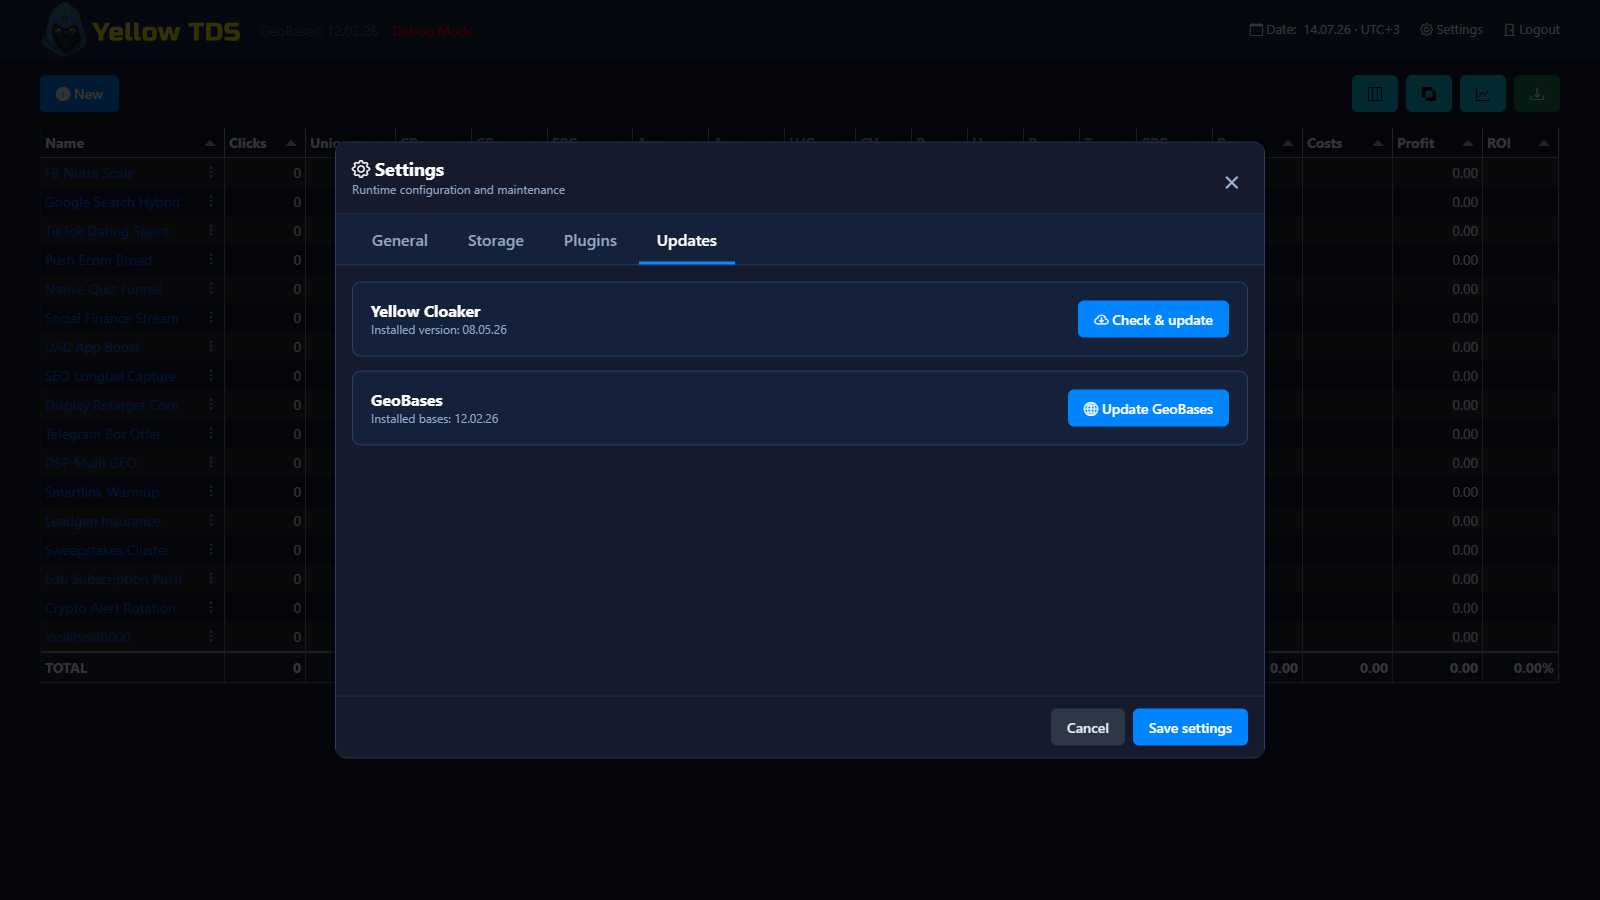
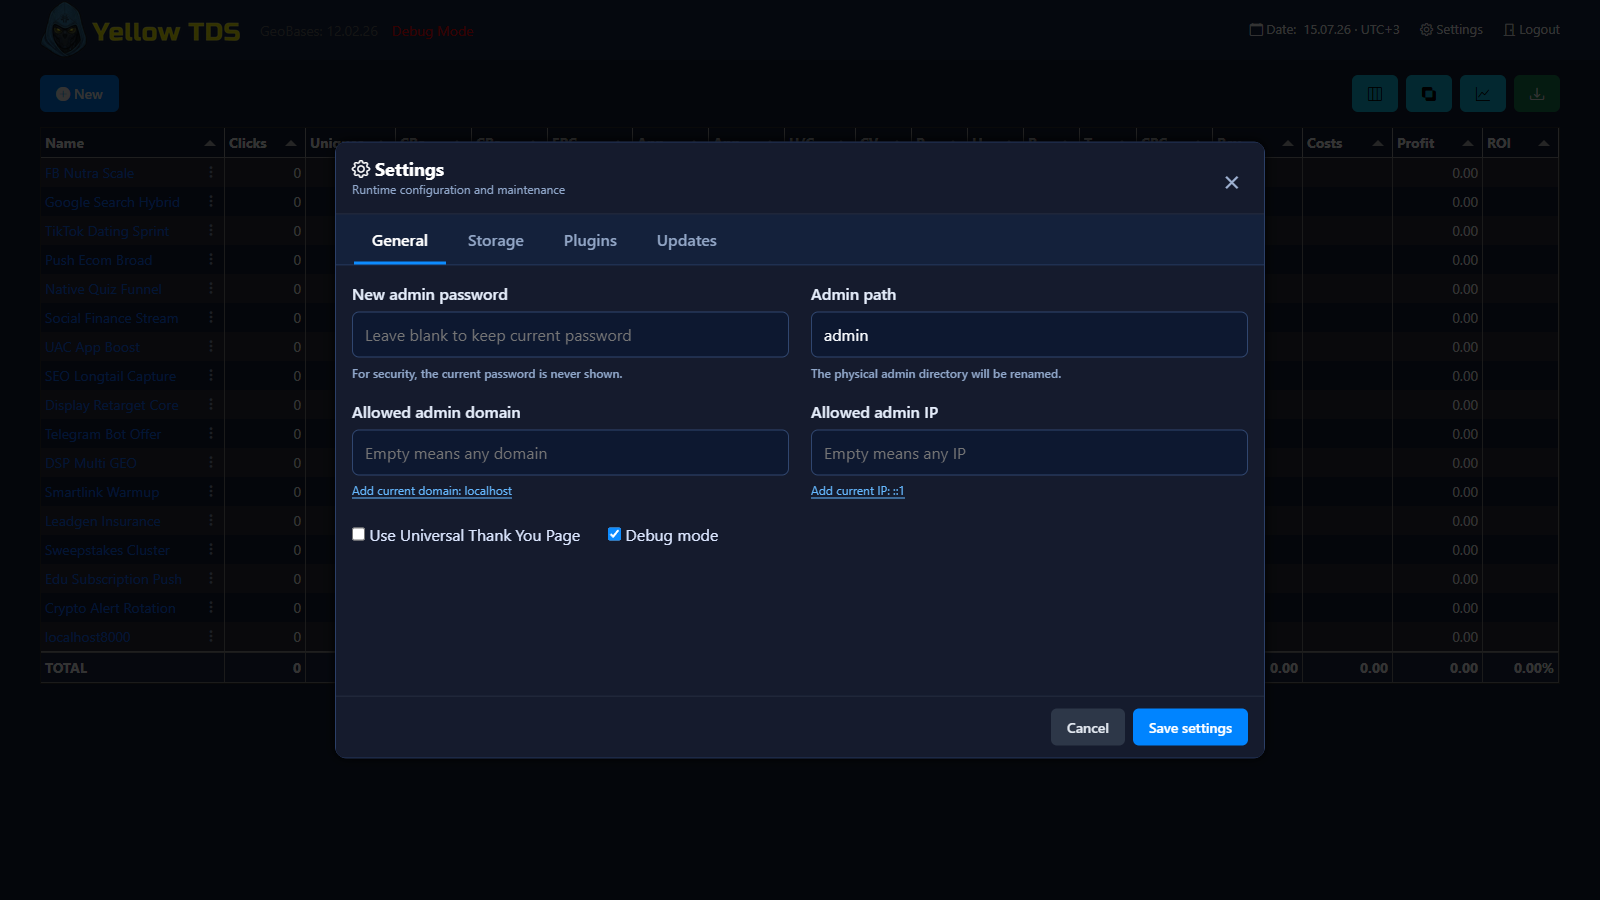
Polish settings update actions and domain helper

diff --git a/admin/js/settings.js b/admin/js/settings.js
@@ -60,6 +60,14 @@
         button.textContent = currentIp === '' ? '' : `Add current IP: ${currentIp}`;
     }
 
+    function renderCurrentDomain(domain) {
+        const button = node('#addCurrentAdminDomain');
+        const currentDomain = String(domain || '').trim();
+        button.hidden = currentDomain === '';
+        button.dataset.domain = currentDomain;
+        button.textContent = currentDomain === '' ? '' : `Add current domain: ${currentDomain}`;
+    }
+
     function createPluginRow(type, id, meta, config) {
         const row = document.createElement('div');
         row.className = 'settings-plugin-row';
@@ -180,6 +188,7 @@
         state.revision = result.revision;
         state.plugins = result.plugins;
         fillFields(result.settings);
+        renderCurrentDomain(result.currentDomain);
         renderCurrentIp(result.currentIp);
         renderPlugins(result.settings, result.plugins);
         node('#tdsVersion').textContent = `Installed version: ${result.updates?.currentVersion || 'unknown'}`;
@@ -302,6 +311,13 @@
         node('#saveSettings')?.addEventListener('click', saveSettings);
         node('#updateGeoBases')?.addEventListener('click', updateGeoBases);
         node('#updateTds')?.addEventListener('click', updateTds);
+        node('#addCurrentAdminDomain')?.addEventListener('click', () => {
+            const button = node('#addCurrentAdminDomain');
+            if (!button.dataset.domain) return;
+            field('adminDomain').value = button.dataset.domain;
+            field('adminDomain').classList.remove('is-invalid');
+            field('adminDomain').focus();
+        });
         node('#addCurrentAdminIp')?.addEventListener('click', () => {
             const button = node('#addCurrentAdminIp');
             if (!button.dataset.ip) return;

diff --git a/admin/css/header.css b/admin/css/header.css
@@ -163,7 +163,7 @@
 .settings-field input.is-invalid { border-color: #f87171; }
 .settings-field-error { color: #fca5a5 !important; }
 
-.settings-current-ip {
+.settings-current-value {
     align-self: flex-start;
     border: 0;
     background: transparent;
@@ -175,7 +175,7 @@
     text-underline-offset: 3px;
 }
 
-.settings-current-ip:hover { color: #9bd1ff; }
+.settings-current-value:hover { color: #9bd1ff; }
 
 .settings-switches {
     display: flex;
@@ -342,6 +342,17 @@
     background: #14213b;
 }
 
+.settings-update-action {
+    display: inline-flex;
+    align-items: center;
+    justify-content: center;
+    gap: 7px;
+    flex: 0 0 190px;
+    width: 190px;
+    min-height: 42px;
+    white-space: nowrap;
+}
+
 .settings-update-card + .settings-update-card { margin-top: 14px; }
 .settings-update-status:empty { display: none; }
 .settings-update-status.success { background: #14372b; color: #a7f3d0; }
@@ -368,6 +379,18 @@
     .settings-grid { grid-template-columns: 1fr; }
     .settings-plugin-row { grid-template-columns: 1fr; }
     .settings-modal-body { max-height: 68vh; }
+}
+
+@media (max-width: 560px) {
+    .settings-update-card {
+        align-items: stretch;
+        flex-direction: column;
+    }
+
+    .settings-update-action {
+        flex-basis: auto;
+        width: 100%;
+    }
 }
 
 .logo-link {

diff --git a/admin/settingsmodal.php b/admin/settingsmodal.php
@@ -33,11 +33,12 @@
                         <label class="settings-field">
                             <span>Allowed admin domain</span>
                             <input type="text" name="adminDomain" placeholder="Empty means any domain">
+                            <button type="button" class="settings-current-value" id="addCurrentAdminDomain" hidden></button>
                         </label>
                         <label class="settings-field">
                             <span>Allowed admin IP</span>
                             <input type="text" name="adminIp" placeholder="Empty means any IP">
-                            <button type="button" class="settings-current-ip" id="addCurrentAdminIp" hidden></button>
+                            <button type="button" class="settings-current-value" id="addCurrentAdminIp" hidden></button>
                         </label>
                     </div>
                     <div class="settings-switches">
@@ -82,11 +83,11 @@
                 <section class="settings-tab-panel" data-settings-panel="updates">
                     <div class="settings-update-card">
                         <div><h6>YellowTDS</h6><div id="tdsVersion" class="settings-update-meta"></div></div>
-                        <button type="button" class="btn btn-primary" id="updateTds"><i class="bi bi-cloud-arrow-down"></i> Check &amp; update</button>
+                        <button type="button" class="btn btn-primary settings-update-action" id="updateTds"><i class="bi bi-cloud-arrow-down"></i> Check &amp; update</button>
                     </div>
                     <div class="settings-update-card">
                         <div><h6>GeoBases</h6><div id="geoBasesVersion" class="settings-update-meta"></div></div>
-                        <button type="button" class="btn btn-primary" id="updateGeoBases"><i class="bi bi-globe2"></i> Update GeoBases</button>
+                        <button type="button" class="btn btn-primary settings-update-action" id="updateGeoBases"><i class="bi bi-globe2"></i> Update GeoBases</button>
                     </div>
                     <div id="settingsUpdateStatus" class="settings-update-status" aria-live="polite"></div>
                 </section>

diff --git a/admin/accesscontrol.php b/admin/accesscontrol.php
@@ -1,6 +1,17 @@
 <?php
 require_once __DIR__ . '/../bases/ipcountry.php';
 
+function get_admin_request_domain(array $server): string
+{
+    $serverName = trim((string)($server['SERVER_NAME'] ?? ''));
+    if ($serverName === '') {
+        return '';
+    }
+
+    $domain = parse_url('http://' . $serverName, PHP_URL_HOST);
+    return is_string($domain) ? $domain : $serverName;
+}
+
 function get_admin_request_ip(array $server, ?callable $isCloudflareIp = null): string
 {
     $remoteAddr = trim((string)($server['REMOTE_ADDR'] ?? ''));
@@ -49,7 +60,7 @@ function get_admin_access_error(array $server, array $settings, ?callable $isClo
 {
     $adminDomain = trim((string)($settings['adminDomain'] ?? ''));
     if ($adminDomain !== '') {
-        $currentDomain = (string)($server['SERVER_NAME'] ?? '');
+        $currentDomain = get_admin_request_domain($server);
         if ($currentDomain !== $adminDomain) {
             return "Admin Domain $adminDomain is set, but your domain is $currentDomain. You are not allowed to access this page!";
         }

diff --git a/tests/AdminAccessControlTest.php b/tests/AdminAccessControlTest.php
@@ -1,0 +1,27 @@
+<?php
+
+use PHPUnit\Framework\TestCase;
+
+$GLOBALS['cloSettings'] = [
+    'debug' => false,
+];
+
+require_once __DIR__ . '/../admin/accesscontrol.php';
+
+class AdminAccessControlTest extends TestCase
+{
+    public function testCurrentDomainDoesNotIncludePort(): void
+    {
+        $server = ['SERVER_NAME' => 'admin.example.com:8443'];
+
+        $this->assertSame('admin.example.com', get_admin_request_domain($server));
+    }
+
+    public function testDomainRestrictionUsesDetectedDomainWithoutPort(): void
+    {
+        $server = ['SERVER_NAME' => 'admin.example.com:8443'];
+        $settings = ['adminDomain' => 'admin.example.com', 'adminIp' => ''];
+
+        $this->assertNull(get_admin_access_error($server, $settings));
+    }
+}

diff --git a/admin/settingseditor.php b/admin/settingseditor.php
@@ -39,6 +39,7 @@ function settingseditor_handle_request(): void
             settingseditor_send([
                 'settings' => $manager->adminPayload($reconciled['settings']),
                 'revision' => $reconciled['revision'],
+                'currentDomain' => get_admin_request_domain($_SERVER),
                 'currentIp' => get_admin_request_ip($_SERVER),
                 'plugins' => $catalog,
                 'updates' => [

diff --git a/docs/ru/system-settings.md b/docs/ru/system-settings.md
@@ -11,7 +11,7 @@
 - **Plugins** — включение валютных источников и VPN/proxy-детекторов, предпочтительные валюты и режим `any`/`most`.
 - **Updates** — проверка и установка обновления YellowTDS и обновление GeoBases.
 
-Под полем **Allowed admin IP** показывается определённый сервером текущий IP. Кнопка **Add current IP** переносит его в поле одним нажатием. На вкладке **Plugins** каждый плагин имеет явный переключатель и подпись **Enabled** или **Disabled**; параметры выключенного плагина становятся неактивными.
+Под полями **Allowed admin domain** и **Allowed admin IP** показываются определённые сервером текущий домен и IP. Кнопки **Add current domain** и **Add current IP** переносят соответствующее значение в поле одним нажатием; домен подставляется без номера порта. На вкладке **Plugins** каждый плагин имеет явный переключатель и подпись **Enabled** или **Disabled**; параметры выключенного плагина становятся неактивными.
 
 Изменение пути админки, имени БД или cache-папок физически переименовывает соответствующие файлы и каталоги. Существующая целевая папка или файл считаются конфликтом и не перезаписываются. После смены пути админки браузер автоматически переходит на новый URL.
 

diff --git a/docs/en/system-settings.md b/docs/en/system-settings.md
@@ -11,7 +11,7 @@ The **Settings** button in the header opens instance-wide YellowTDS settings. Th
 - **Plugins** — currency sources and VPN/proxy detectors, preferred currencies, and `any`/`most` decision mode.
 - **Updates** — check and install a YellowTDS update or refresh GeoBases.
 
-The server-detected current IP is shown below **Allowed admin IP**. **Add current IP** copies it into the field with one click. On the **Plugins** tab, every plugin has an explicit switch and an **Enabled** or **Disabled** label; options belonging to a disabled plugin are inactive.
+The server-detected current domain and IP are shown below **Allowed admin domain** and **Allowed admin IP**. **Add current domain** and **Add current IP** copy the corresponding value into the field with one click; the domain is inserted without a port number. On the **Plugins** tab, every plugin has an explicit switch and an **Enabled** or **Disabled** label; options belonging to a disabled plugin are inactive.
 
 Changing the admin path, database file name, or cache directory names physically renames the corresponding files and directories. Existing destinations are treated as conflicts and are never overwritten or merged. After an admin path change, the browser automatically redirects to the new URL.
 
